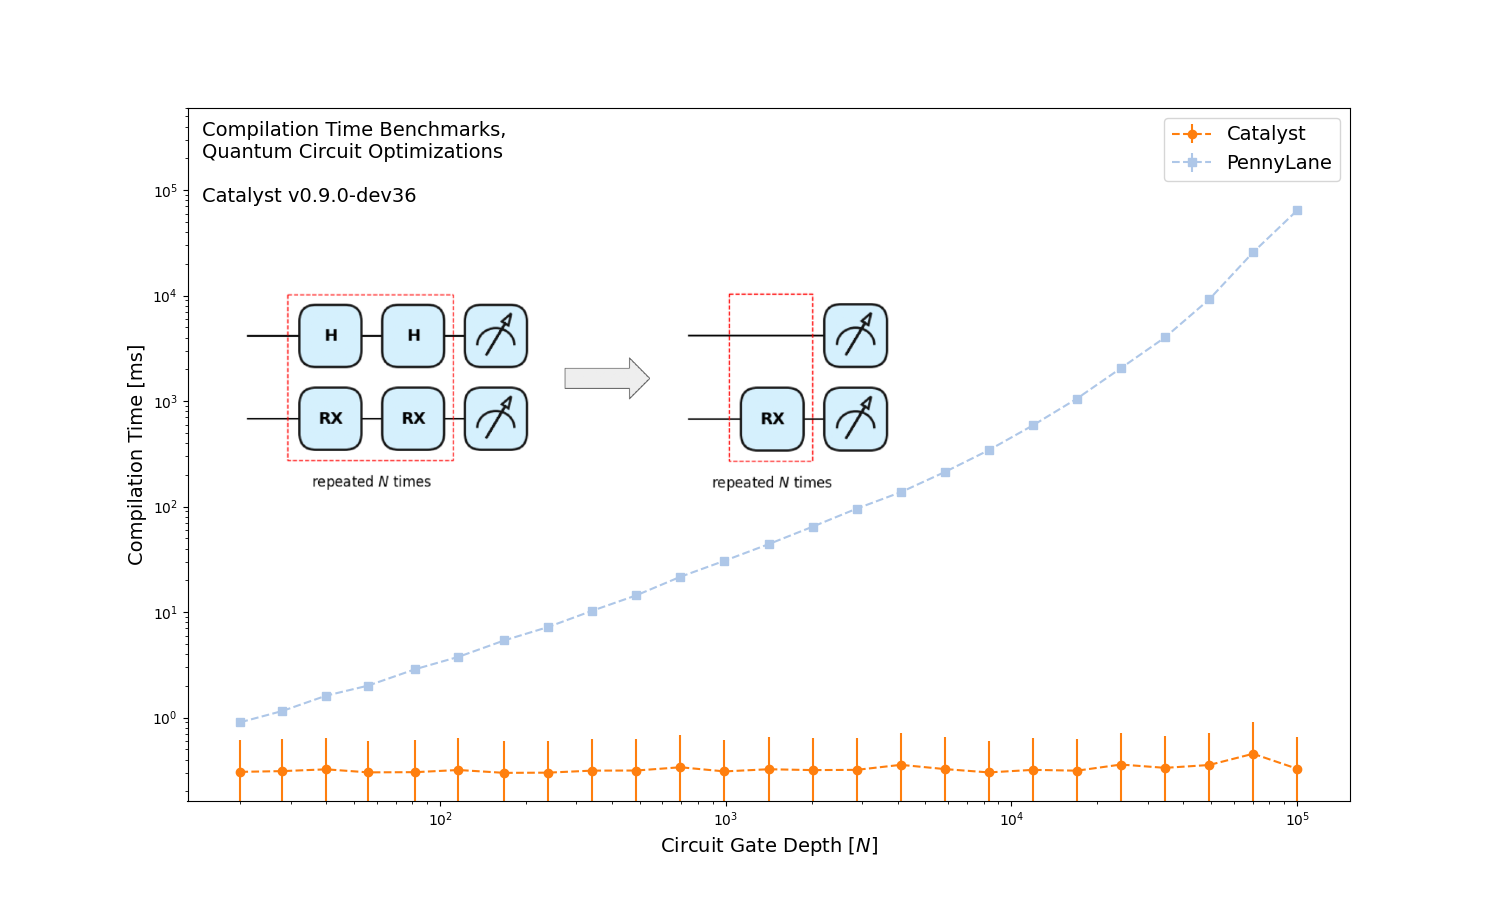
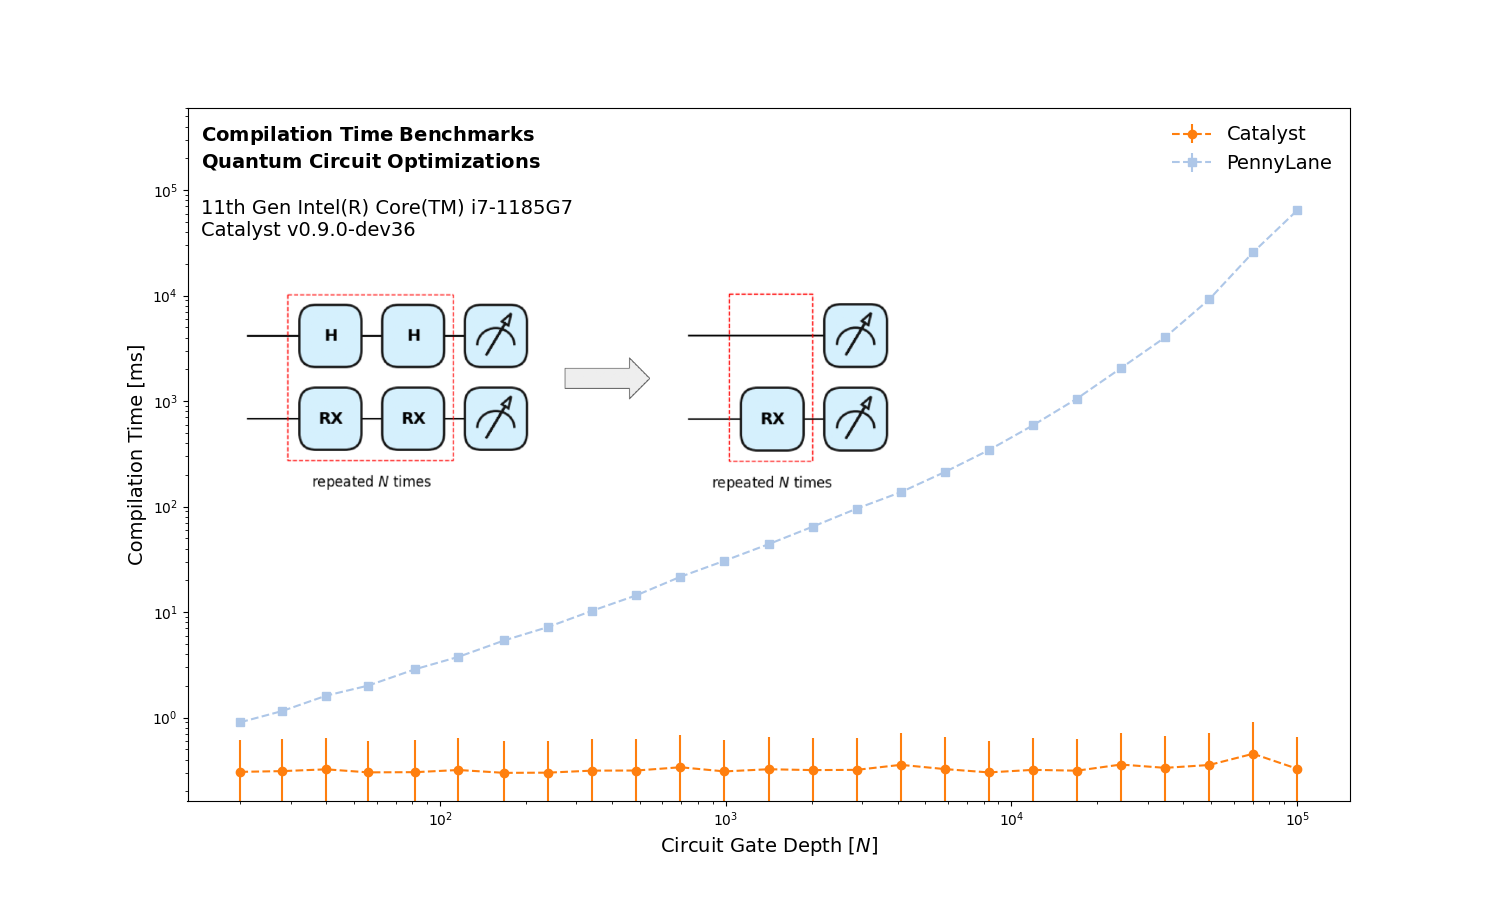
sync ;)

Changed region(s): [[0.1227, 0.1244, 0.368, 0.28]]

diff --git a/plot.py b/plot.py
@@ -24,6 +24,7 @@ print(loopsizes, walltimes, cputimes, programsizes, core_PL_times,
     walltime_errs, cputime_errs, programsize_errs, core_PL_time_errs)
 
 
+
 plt.figure(figsize=(15, 9))
 
 # plt.plot(loopsizes, walltimes, label='wall time', color='green')
@@ -40,8 +41,8 @@ plt.xscale("log")
 plt.yscale("log")
 plt.ylabel("Compilation Time [ms]", fontsize=14)
 # plt.ylim(0.29, 0.35)
-plt.ylim(-100, 600000)
-plt.legend(loc="upper right", fontsize=14)
+plt.ylim(-0.00001, 600000)
+plt.legend(loc="upper right", fontsize=14, frameon=False)
 
 
 img = mpimg.imread("auto_peephole_comp_horizontal.png")
@@ -57,16 +58,17 @@ plt.gca().add_artist(ab)
 
 text_box = TextArea(
     """
-Compilation Time Benchmarks,
-Quantum Circuit Optimizations
+$\mathbf{Compilation~Time~Benchmarks}$
+$\mathbf{Quantum~Circuit~Optimizations}$
 
+11th Gen Intel(R) Core(TM) i7-1185G7
 Catalyst v0.9.0-dev36
 """,
     textprops=dict(color="black", fontsize=14),
 )
 ab = AnnotationBbox(
     text_box,
-    (50, 180000),
+    (65, 120000),
     frameon=False,
     bboxprops=dict(facecolor="none", edgecolor="none"),
     zorder=1,
@@ -91,5 +93,5 @@ plt.legend()
 """
 
 plt.subplots_adjust(hspace=0.8)
-plt.show()
-#plt.savefig("catalyst_quant_advantage_peephole_compile_time_artificial_circuit_log_err.png")
+#plt.show()
+plt.savefig("catalyst_quant_advantage_peephole_compile_time_artificial_circuit_log_err.png")
